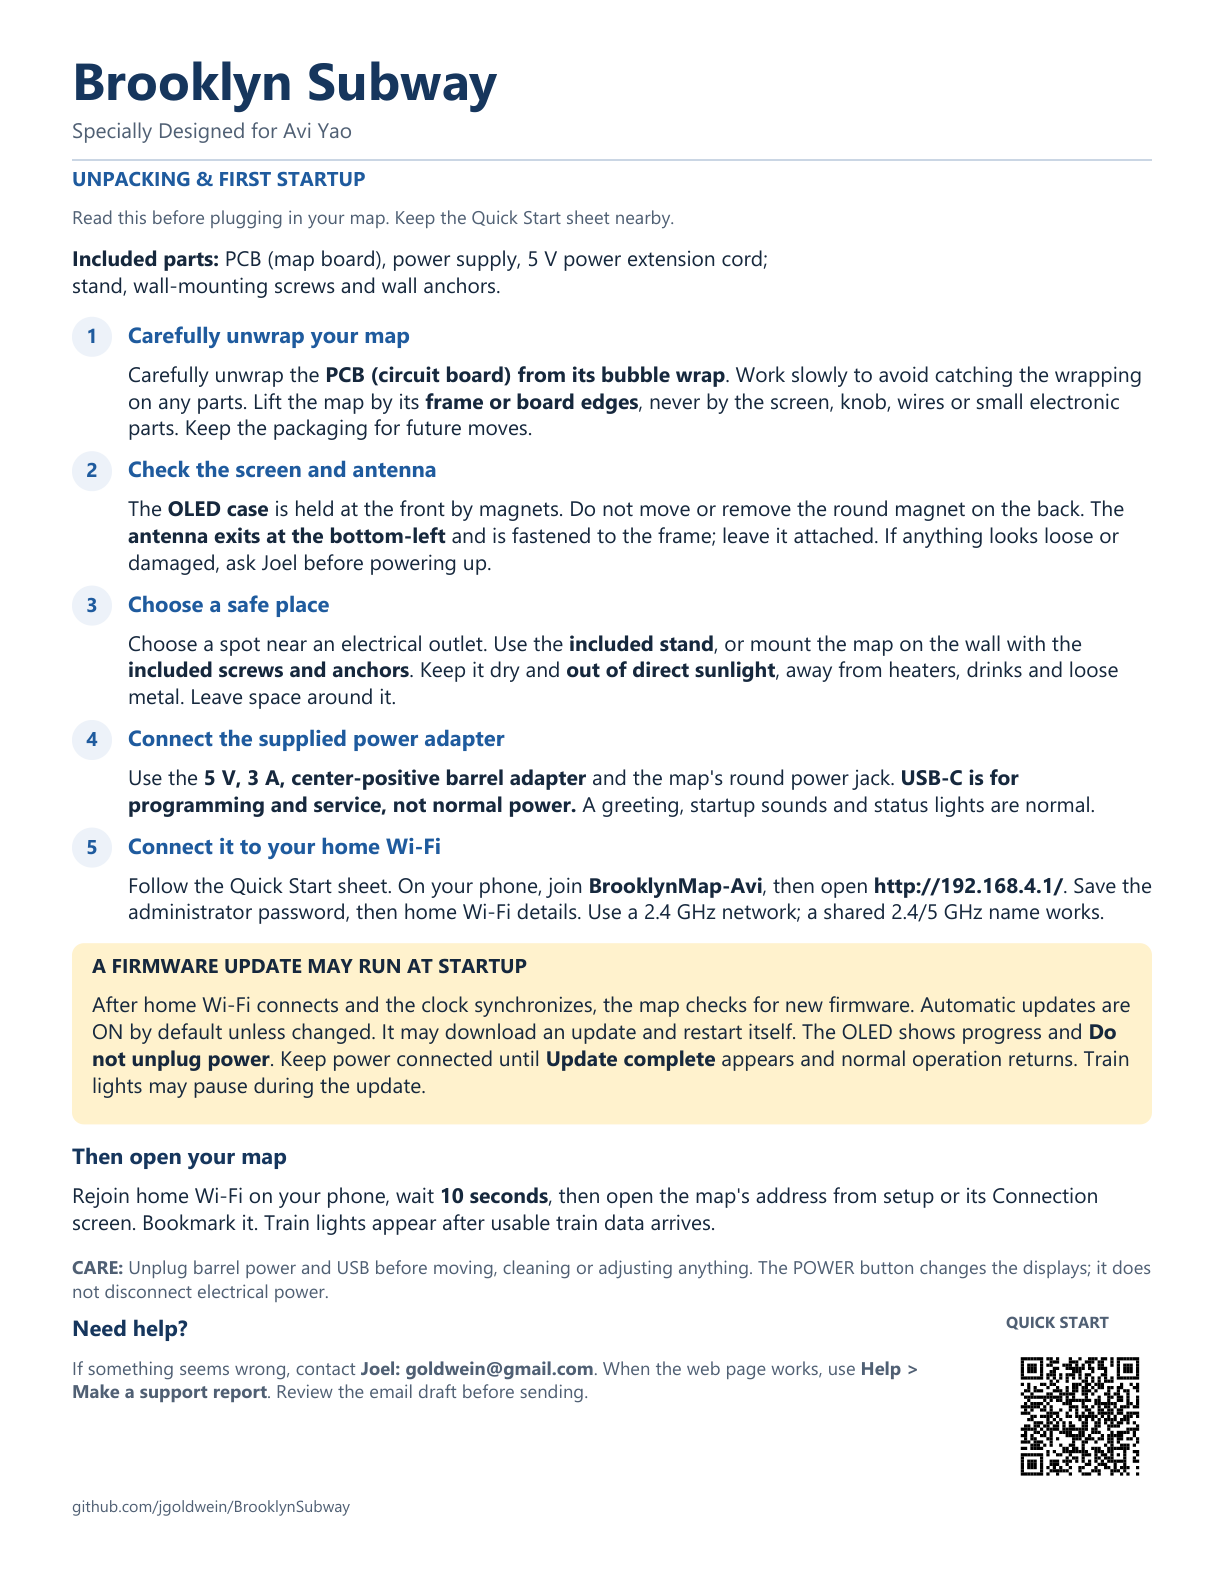
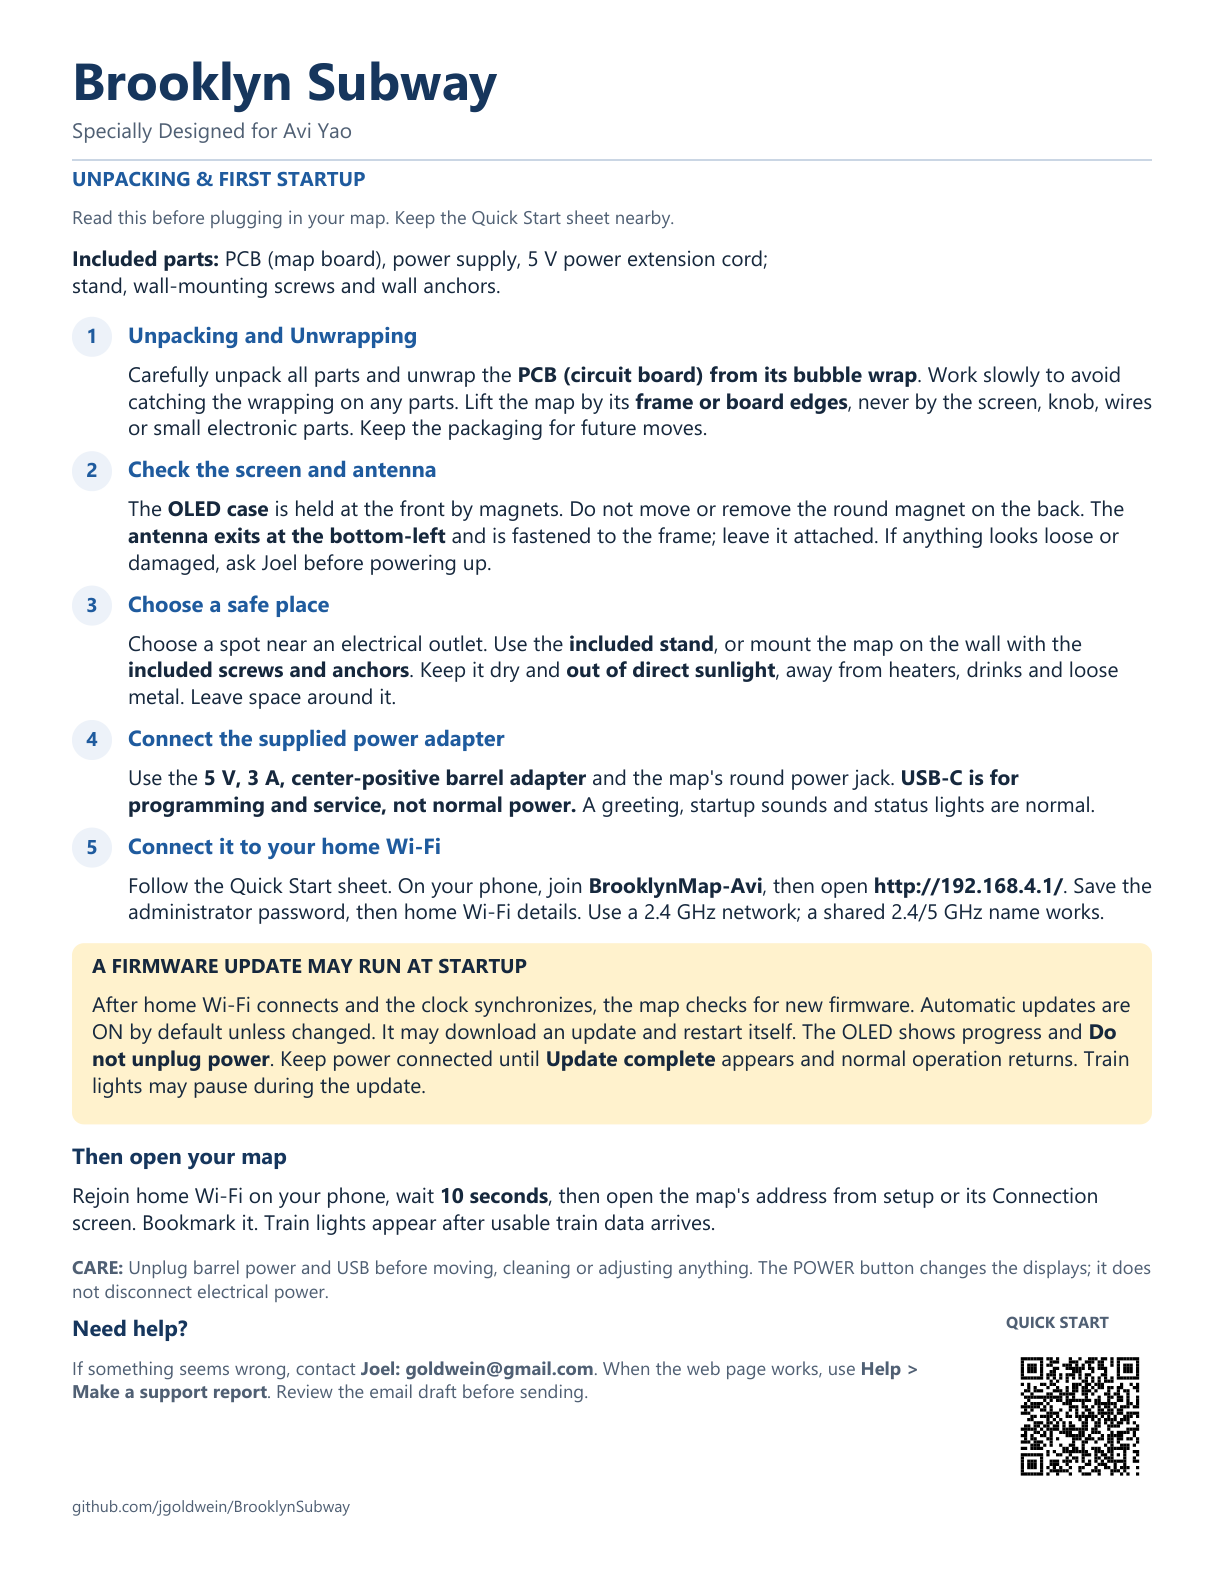
Revise unpacking and unwrapping wording as requested

Changed region(s): [[0.0931, 0.1856, 0.9314, 0.2784]]

diff --git a/docs/shipping/Brooklyn_Subway_Unpacking_Guide.md b/docs/shipping/Brooklyn_Subway_Unpacking_Guide.md
@@ -15,7 +15,7 @@ Read this before plugging in your map. Keep the Quick Start sheet nearby.
 
 ## Unpack and start
 
-1. **Carefully unwrap your map.** Carefully unwrap the **PCB (circuit board) from its bubble wrap**. Work slowly to avoid catching the wrapping on any parts. Lift the map by its **frame or board edges**, never by the screen, knob, wires or small electronic parts. Keep the packaging for future moves.
+1. **Unpacking and Unwrapping.** Carefully unpack all parts and unwrap the **PCB (circuit board) from its bubble wrap**. Work slowly to avoid catching the wrapping on any parts. Lift the map by its **frame or board edges**, never by the screen, knob, wires or small electronic parts. Keep the packaging for future moves.
 
 2. **Check the screen and antenna.** The **OLED case** is held at the front by magnets. Do not move or remove the round magnet on the back. The **antenna exits at the bottom-left** and is fastened to the frame; leave it attached. If anything looks loose or damaged, ask Joel before powering up.
 
